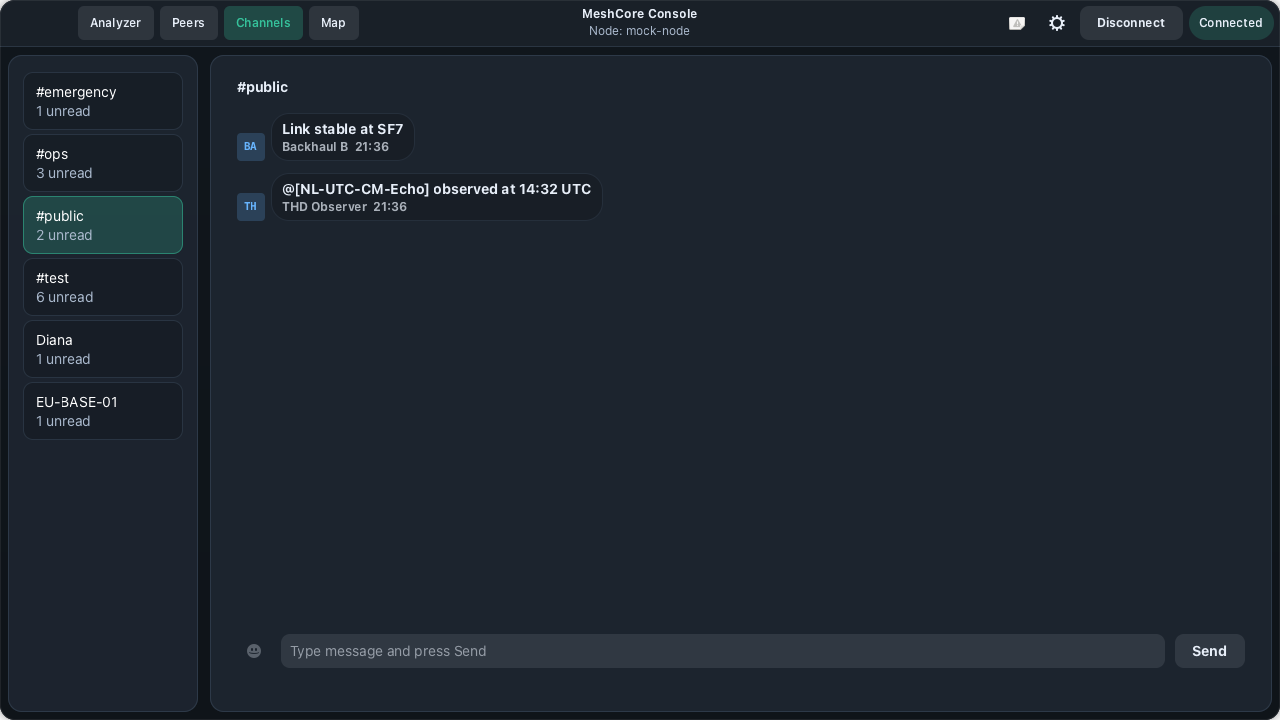
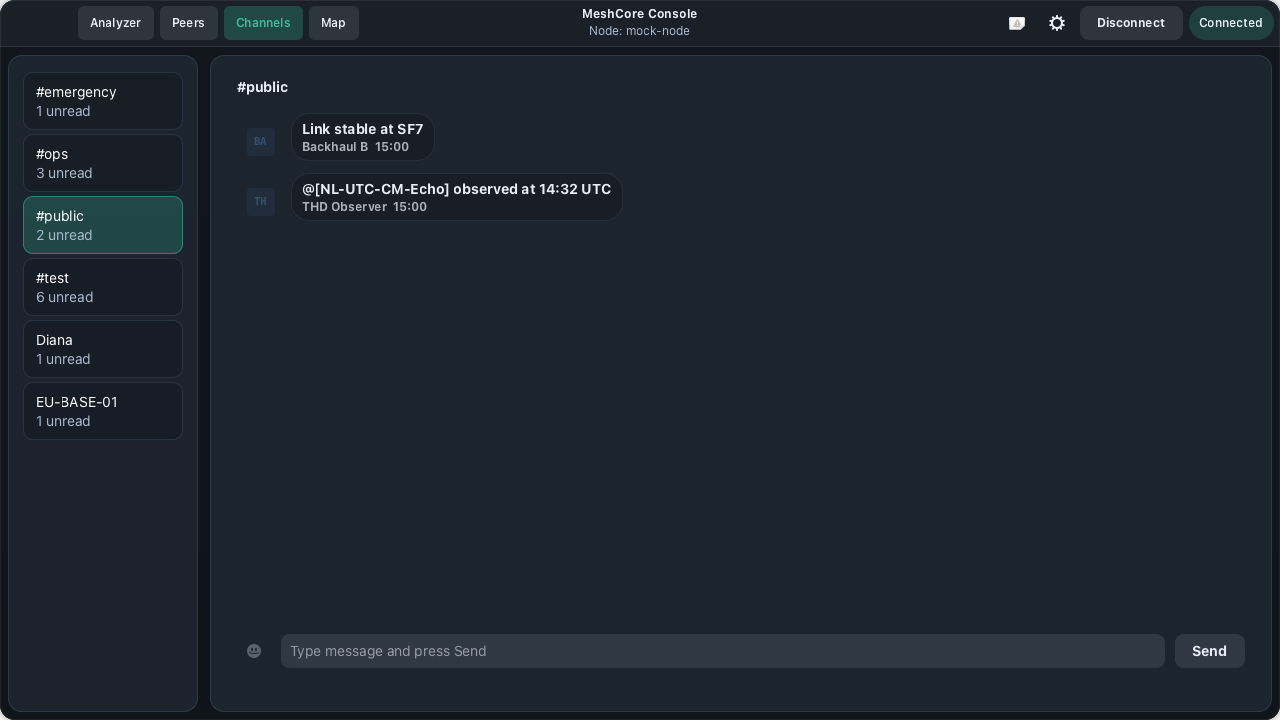
bump: version 1.2.0 → 1.3.0

Changed region(s): [[0.1875, 0.1528, 0.4688, 0.3056]]

diff --git a/CHANGELOG.md b/CHANGELOG.md
@@ -5,6 +5,17 @@ All notable changes to this project will be documented in this file.
 The format is based on [Keep a Changelog](https://keepachangelog.com/),
 and this project adheres to [Semantic Versioning](https://semver.org/).
 
+## v1.3.0 (2026-02-15)
+
+### Feat
+
+- Add monkey testing script for UI stress testing
+
+### Fix
+
+- Resolve GTK widget assertions found by monkey testing
+- Fixup screenshot generation (#23)
+
 ## v1.2.0 (2026-02-14)
 
 ### Feat
